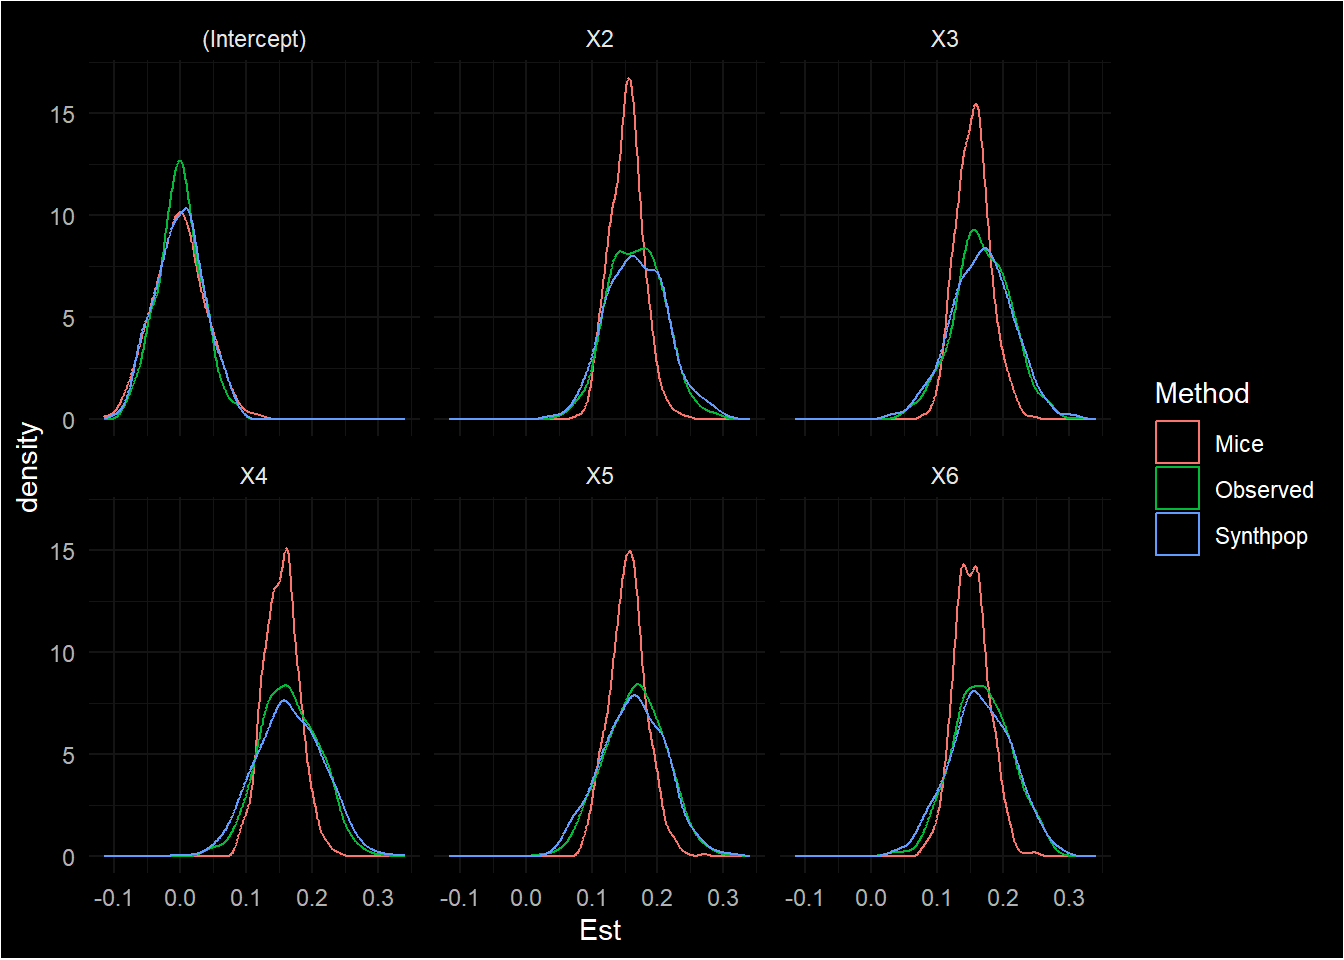
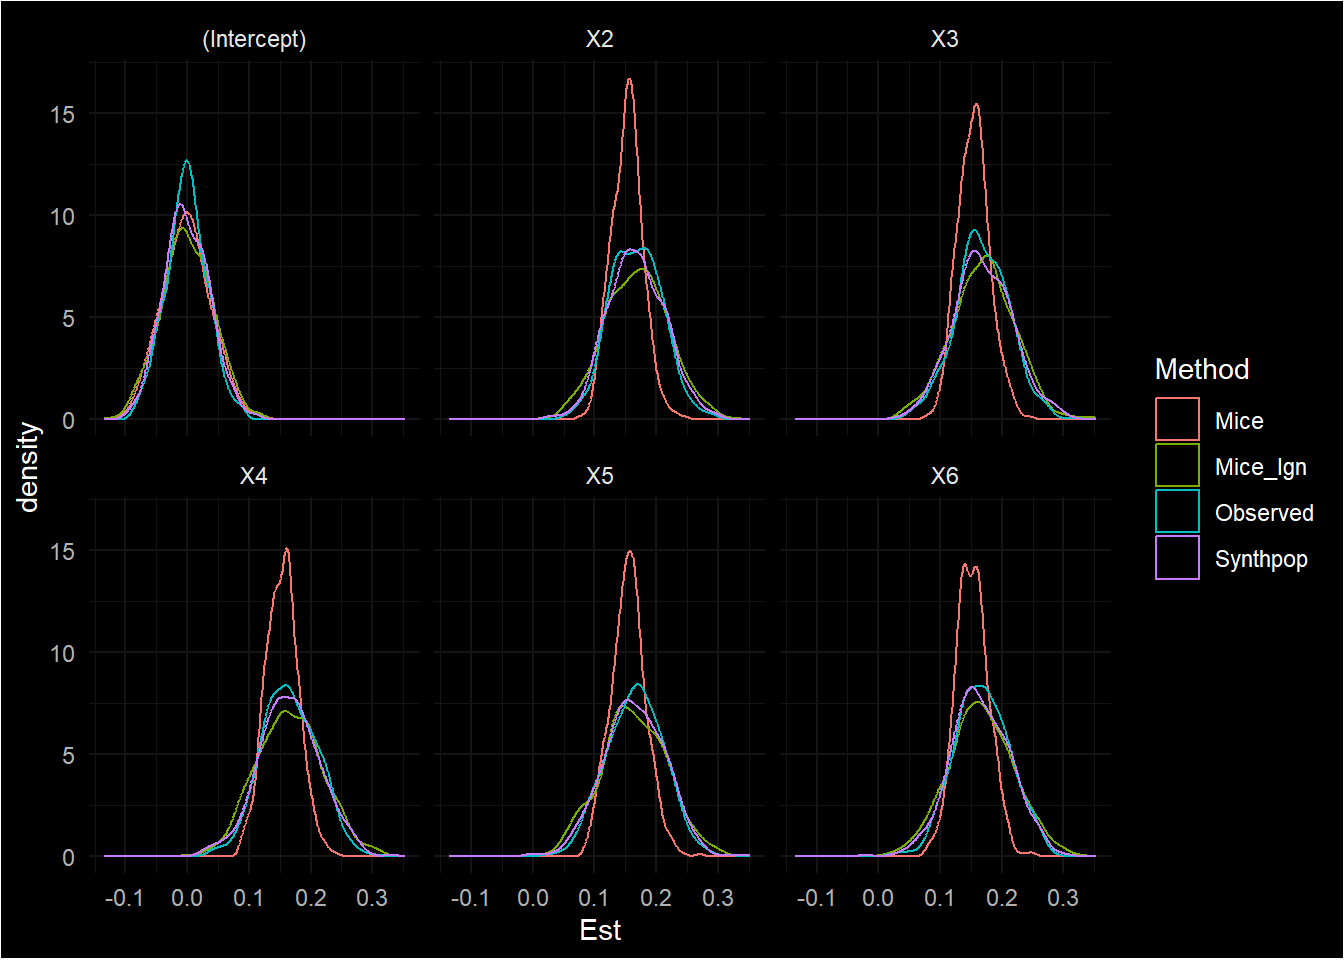
Add another way of synthesizing with mice which yields valid results.

diff --git a/mice_param_synth.html b/mice_param_synth.html
@@ -175,7 +175,7 @@ R^2 = \boldsymbol{1}'_5 (\beta \beta' \odot S_{-1,-1}) \boldsymbol{1}_5
 </section>
 <section id="create-synthetic-data" class="level2">
 <h2 class="anchored" data-anchor-id="create-synthetic-data">Create synthetic data</h2>
-<div class="cell" data-hash="mice_param_synth_cache/html/gen-synth_a96e5182432711e8728e7683e5a57239">
+<div class="cell" data-hash="mice_param_synth_cache/html/gen-synth_36312c147d21671e6af67e35dd333d4c">
 <div class="sourceCode cell-code" id="cb4"><pre class="sourceCode r code-with-copy"><code class="sourceCode r"><span id="cb4-1"><a href="#cb4-1" aria-hidden="true" tabindex="-1"></a>synth_mice <span class="ot">&lt;-</span> <span class="fu">future_map</span>(datlist, <span class="sc">~</span> <span class="fu">mice</span>(.x,</span>
 <span id="cb4-2"><a href="#cb4-2" aria-hidden="true" tabindex="-1"></a>                                         <span class="at">m =</span> <span class="dv">5</span>,</span>
 <span id="cb4-3"><a href="#cb4-3" aria-hidden="true" tabindex="-1"></a>                                         <span class="at">maxit =</span> <span class="dv">1</span>,</span>
@@ -185,11 +185,25 @@ R^2 = \boldsymbol{1}'_5 (\beta \beta' \odot S_{-1,-1}) \boldsymbol{1}_5
 <span id="cb4-7"><a href="#cb4-7" aria-hidden="true" tabindex="-1"></a>                                    <span class="fu">complete</span>(<span class="st">"all"</span>),</span>
 <span id="cb4-8"><a href="#cb4-8" aria-hidden="true" tabindex="-1"></a>                         <span class="at">.options =</span> <span class="fu">furrr_options</span>(<span class="at">seed =</span> <span class="cn">TRUE</span>))</span>
 <span id="cb4-9"><a href="#cb4-9" aria-hidden="true" tabindex="-1"></a></span>
-<span id="cb4-10"><a href="#cb4-10" aria-hidden="true" tabindex="-1"></a>synth_synthpop <span class="ot">&lt;-</span> <span class="fu">future_map</span>(datlist, <span class="sc">~</span> <span class="fu">syn</span>(.x,</span>
-<span id="cb4-11"><a href="#cb4-11" aria-hidden="true" tabindex="-1"></a>                                            <span class="at">m =</span> <span class="dv">5</span>, </span>
-<span id="cb4-12"><a href="#cb4-12" aria-hidden="true" tabindex="-1"></a>                                            <span class="at">method =</span> <span class="st">"norm"</span>,</span>
-<span id="cb4-13"><a href="#cb4-13" aria-hidden="true" tabindex="-1"></a>                                            <span class="at">print.flag =</span> F)<span class="sc">$</span>syn,</span>
-<span id="cb4-14"><a href="#cb4-14" aria-hidden="true" tabindex="-1"></a>                             <span class="at">.options =</span> <span class="fu">furrr_options</span>(<span class="at">seed =</span> <span class="cn">TRUE</span>))</span></code><button title="Copy to Clipboard" class="code-copy-button"><i class="bi"></i></button></pre></div>
+<span id="cb4-10"><a href="#cb4-10" aria-hidden="true" tabindex="-1"></a>synth_mice2 <span class="ot">&lt;-</span> <span class="fu">future_map</span>(datlist, <span class="cf">function</span>(x) {</span>
+<span id="cb4-11"><a href="#cb4-11" aria-hidden="true" tabindex="-1"></a>  new_x <span class="ot">&lt;-</span> <span class="fu">matrix</span>(<span class="cn">NA</span>, <span class="fu">nrow</span>(x), <span class="fu">ncol</span>(x), <span class="at">dimnames =</span> <span class="fu">list</span>(<span class="cn">NULL</span>, <span class="fu">names</span>(x)))</span>
+<span id="cb4-12"><a href="#cb4-12" aria-hidden="true" tabindex="-1"></a>  pred  <span class="ot">&lt;-</span> <span class="fu">make.predictorMatrix</span>(x)</span>
+<span id="cb4-13"><a href="#cb4-13" aria-hidden="true" tabindex="-1"></a>  imp   <span class="ot">&lt;-</span> <span class="fu">mice</span>(<span class="fu">rbind</span>(x, new_x),</span>
+<span id="cb4-14"><a href="#cb4-14" aria-hidden="true" tabindex="-1"></a>                <span class="at">m =</span> <span class="dv">5</span>, </span>
+<span id="cb4-15"><a href="#cb4-15" aria-hidden="true" tabindex="-1"></a>                <span class="at">method =</span> <span class="st">"norm"</span>,</span>
+<span id="cb4-16"><a href="#cb4-16" aria-hidden="true" tabindex="-1"></a>                <span class="at">maxit =</span> <span class="dv">1</span>,</span>
+<span id="cb4-17"><a href="#cb4-17" aria-hidden="true" tabindex="-1"></a>                <span class="at">predictorMatrix =</span> <span class="sc">+</span><span class="fu">lower.tri</span>(pred),</span>
+<span id="cb4-18"><a href="#cb4-18" aria-hidden="true" tabindex="-1"></a>                <span class="at">ignore =</span> <span class="fu">rep</span>(<span class="fu">c</span>(<span class="cn">FALSE</span>, <span class="cn">TRUE</span>), <span class="at">each =</span> <span class="fu">nrow</span>(x)),</span>
+<span id="cb4-19"><a href="#cb4-19" aria-hidden="true" tabindex="-1"></a>                <span class="at">print =</span> F)</span>
+<span id="cb4-20"><a href="#cb4-20" aria-hidden="true" tabindex="-1"></a>  <span class="fu">complete</span>(imp, <span class="st">"all"</span>) <span class="sc">|&gt;</span></span>
+<span id="cb4-21"><a href="#cb4-21" aria-hidden="true" tabindex="-1"></a>    <span class="fu">map</span>(<span class="sc">~</span> .x[(<span class="fu">nrow</span>(x) <span class="sc">+</span> <span class="dv">1</span>)<span class="sc">:</span>(<span class="dv">2</span><span class="sc">*</span><span class="fu">nrow</span>(x)),])</span>
+<span id="cb4-22"><a href="#cb4-22" aria-hidden="true" tabindex="-1"></a>}, <span class="at">.options =</span> <span class="fu">furrr_options</span>(<span class="at">seed =</span> <span class="cn">TRUE</span>))</span>
+<span id="cb4-23"><a href="#cb4-23" aria-hidden="true" tabindex="-1"></a></span>
+<span id="cb4-24"><a href="#cb4-24" aria-hidden="true" tabindex="-1"></a>synth_synthpop <span class="ot">&lt;-</span> <span class="fu">future_map</span>(datlist, <span class="sc">~</span> <span class="fu">syn</span>(.x,</span>
+<span id="cb4-25"><a href="#cb4-25" aria-hidden="true" tabindex="-1"></a>                                            <span class="at">m =</span> <span class="dv">5</span>, </span>
+<span id="cb4-26"><a href="#cb4-26" aria-hidden="true" tabindex="-1"></a>                                            <span class="at">method =</span> <span class="st">"norm"</span>,</span>
+<span id="cb4-27"><a href="#cb4-27" aria-hidden="true" tabindex="-1"></a>                                            <span class="at">print.flag =</span> F)<span class="sc">$</span>syn,</span>
+<span id="cb4-28"><a href="#cb4-28" aria-hidden="true" tabindex="-1"></a>                             <span class="at">.options =</span> <span class="fu">furrr_options</span>(<span class="at">seed =</span> <span class="cn">TRUE</span>))</span></code><button title="Copy to Clipboard" class="code-copy-button"><i class="bi"></i></button></pre></div>
 </div>
 </section>
 <section id="inferences" class="level2">
@@ -231,7 +245,7 @@ R^2 = \boldsymbol{1}'_5 (\beta \beta' \odot S_{-1,-1}) \boldsymbol{1}_5
 <span id="cb5-34"><a href="#cb5-34" aria-hidden="true" tabindex="-1"></a>             <span class="at">Upp =</span> fit[,<span class="dv">3</span>] <span class="sc">+</span> <span class="fu">qt</span>(<span class="fl">0.975</span>, fit[,<span class="dv">8</span>]) <span class="sc">*</span> <span class="fu">sqrt</span>(fit[,<span class="dv">6</span>]))</span>
 <span id="cb5-35"><a href="#cb5-35" aria-hidden="true" tabindex="-1"></a>})</span>
 <span id="cb5-36"><a href="#cb5-36" aria-hidden="true" tabindex="-1"></a></span>
-<span id="cb5-37"><a href="#cb5-37" aria-hidden="true" tabindex="-1"></a>synthpop_inf <span class="ot">&lt;-</span> <span class="fu">map_dfr</span>(synth_synthpop, <span class="cf">function</span>(x) {</span>
+<span id="cb5-37"><a href="#cb5-37" aria-hidden="true" tabindex="-1"></a>mice2_inf <span class="ot">&lt;-</span> <span class="fu">map_dfr</span>(synth_mice2, <span class="cf">function</span>(x) {</span>
 <span id="cb5-38"><a href="#cb5-38" aria-hidden="true" tabindex="-1"></a>  fit <span class="ot">&lt;-</span> <span class="fu">map</span>(x, <span class="sc">~</span> <span class="fu">lm</span>(X1 <span class="sc">~</span> X2 <span class="sc">+</span> X3 <span class="sc">+</span> X4 <span class="sc">+</span> X5 <span class="sc">+</span> X6, .x)) <span class="sc">|&gt;</span></span>
 <span id="cb5-39"><a href="#cb5-39" aria-hidden="true" tabindex="-1"></a>    <span class="fu">pool</span>(<span class="at">rule =</span> <span class="st">"reiter2003"</span>) <span class="sc">%$%</span></span>
 <span id="cb5-40"><a href="#cb5-40" aria-hidden="true" tabindex="-1"></a>    pooled</span>
@@ -241,7 +255,19 @@ R^2 = \boldsymbol{1}'_5 (\beta \beta' \odot S_{-1,-1}) \boldsymbol{1}_5
 <span id="cb5-44"><a href="#cb5-44" aria-hidden="true" tabindex="-1"></a>             <span class="at">SE  =</span> <span class="fu">sqrt</span>(fit[,<span class="dv">6</span>]),</span>
 <span id="cb5-45"><a href="#cb5-45" aria-hidden="true" tabindex="-1"></a>             <span class="at">Low =</span> fit[,<span class="dv">3</span>] <span class="sc">-</span> <span class="fu">qt</span>(<span class="fl">0.975</span>, fit[,<span class="dv">8</span>]) <span class="sc">*</span> <span class="fu">sqrt</span>(fit[,<span class="dv">6</span>]),</span>
 <span id="cb5-46"><a href="#cb5-46" aria-hidden="true" tabindex="-1"></a>             <span class="at">Upp =</span> fit[,<span class="dv">3</span>] <span class="sc">+</span> <span class="fu">qt</span>(<span class="fl">0.975</span>, fit[,<span class="dv">8</span>]) <span class="sc">*</span> <span class="fu">sqrt</span>(fit[,<span class="dv">6</span>]))</span>
-<span id="cb5-47"><a href="#cb5-47" aria-hidden="true" tabindex="-1"></a>})</span></code><button title="Copy to Clipboard" class="code-copy-button"><i class="bi"></i></button></pre></div>
+<span id="cb5-47"><a href="#cb5-47" aria-hidden="true" tabindex="-1"></a>})</span>
+<span id="cb5-48"><a href="#cb5-48" aria-hidden="true" tabindex="-1"></a></span>
+<span id="cb5-49"><a href="#cb5-49" aria-hidden="true" tabindex="-1"></a>synthpop_inf <span class="ot">&lt;-</span> <span class="fu">map_dfr</span>(synth_synthpop, <span class="cf">function</span>(x) {</span>
+<span id="cb5-50"><a href="#cb5-50" aria-hidden="true" tabindex="-1"></a>  fit <span class="ot">&lt;-</span> <span class="fu">map</span>(x, <span class="sc">~</span> <span class="fu">lm</span>(X1 <span class="sc">~</span> X2 <span class="sc">+</span> X3 <span class="sc">+</span> X4 <span class="sc">+</span> X5 <span class="sc">+</span> X6, .x)) <span class="sc">|&gt;</span></span>
+<span id="cb5-51"><a href="#cb5-51" aria-hidden="true" tabindex="-1"></a>    <span class="fu">pool</span>(<span class="at">rule =</span> <span class="st">"reiter2003"</span>) <span class="sc">%$%</span></span>
+<span id="cb5-52"><a href="#cb5-52" aria-hidden="true" tabindex="-1"></a>    pooled</span>
+<span id="cb5-53"><a href="#cb5-53" aria-hidden="true" tabindex="-1"></a>  </span>
+<span id="cb5-54"><a href="#cb5-54" aria-hidden="true" tabindex="-1"></a>  <span class="fu">data.frame</span>(<span class="at">Var =</span> fit[,<span class="dv">1</span>],</span>
+<span id="cb5-55"><a href="#cb5-55" aria-hidden="true" tabindex="-1"></a>             <span class="at">Est =</span> fit[,<span class="dv">3</span>],</span>
+<span id="cb5-56"><a href="#cb5-56" aria-hidden="true" tabindex="-1"></a>             <span class="at">SE  =</span> <span class="fu">sqrt</span>(fit[,<span class="dv">6</span>]),</span>
+<span id="cb5-57"><a href="#cb5-57" aria-hidden="true" tabindex="-1"></a>             <span class="at">Low =</span> fit[,<span class="dv">3</span>] <span class="sc">-</span> <span class="fu">qt</span>(<span class="fl">0.975</span>, fit[,<span class="dv">8</span>]) <span class="sc">*</span> <span class="fu">sqrt</span>(fit[,<span class="dv">6</span>]),</span>
+<span id="cb5-58"><a href="#cb5-58" aria-hidden="true" tabindex="-1"></a>             <span class="at">Upp =</span> fit[,<span class="dv">3</span>] <span class="sc">+</span> <span class="fu">qt</span>(<span class="fl">0.975</span>, fit[,<span class="dv">8</span>]) <span class="sc">*</span> <span class="fu">sqrt</span>(fit[,<span class="dv">6</span>]))</span>
+<span id="cb5-59"><a href="#cb5-59" aria-hidden="true" tabindex="-1"></a>})</span></code><button title="Copy to Clipboard" class="code-copy-button"><i class="bi"></i></button></pre></div>
 </div>
 </section>
 <section id="coverage" class="level2">
@@ -381,10 +407,76 @@ R^2 = \boldsymbol{1}'_5 (\beta \beta' \odot S_{-1,-1}) \boldsymbol{1}_5
 </div>
 </div>
 </section>
+<section id="second-mice-approach-to-synthetic-data" class="level3">
+<h3 class="anchored" data-anchor-id="second-mice-approach-to-synthetic-data">Second mice approach to synthetic data</h3>
+<p>Note that with this approach, we specify the ignore parameter to make sure the imputation models are not affected by the synthetic data.</p>
+<div class="cell">
+<div class="sourceCode cell-code" id="cb9"><pre class="sourceCode r code-with-copy"><code class="sourceCode r"><span id="cb9-1"><a href="#cb9-1" aria-hidden="true" tabindex="-1"></a><span class="fu">coverage</span>(mice2_inf, <span class="fu">c</span>(<span class="dv">0</span>,<span class="dv">1</span>,<span class="dv">1</span>,<span class="dv">1</span>,<span class="dv">1</span>,<span class="dv">1</span>)<span class="sc">/</span><span class="dv">6</span>) <span class="sc">|&gt;</span> <span class="fu">print.df</span>()</span></code><button title="Copy to Clipboard" class="code-copy-button"><i class="bi"></i></button></pre></div>
+<div class="cell-output-display">
+
+<table class="table table-striped table-hover" style="margin-left: auto; margin-right: auto;">
+ <thead>
+  <tr>
+   <th style="text-align:left;"> Var </th>
+   <th style="text-align:right;"> True_Est </th>
+   <th style="text-align:right;"> Imp_Est </th>
+   <th style="text-align:right;"> SE </th>
+   <th style="text-align:right;"> Cov </th>
+  </tr>
+ </thead>
+<tbody>
+  <tr>
+   <td style="text-align:left;"> (Intercept) </td>
+   <td style="text-align:right;"> 0.000 </td>
+   <td style="text-align:right;"> 0.000 </td>
+   <td style="text-align:right;"> 0.041 </td>
+   <td style="text-align:right;"> 0.938 </td>
+  </tr>
+  <tr>
+   <td style="text-align:left;"> X2 </td>
+   <td style="text-align:right;"> 0.167 </td>
+   <td style="text-align:right;"> 0.168 </td>
+   <td style="text-align:right;"> 0.052 </td>
+   <td style="text-align:right;"> 0.966 </td>
+  </tr>
+  <tr>
+   <td style="text-align:left;"> X3 </td>
+   <td style="text-align:right;"> 0.167 </td>
+   <td style="text-align:right;"> 0.169 </td>
+   <td style="text-align:right;"> 0.052 </td>
+   <td style="text-align:right;"> 0.950 </td>
+  </tr>
+  <tr>
+   <td style="text-align:left;"> X4 </td>
+   <td style="text-align:right;"> 0.167 </td>
+   <td style="text-align:right;"> 0.165 </td>
+   <td style="text-align:right;"> 0.052 </td>
+   <td style="text-align:right;"> 0.946 </td>
+  </tr>
+  <tr>
+   <td style="text-align:left;"> X5 </td>
+   <td style="text-align:right;"> 0.167 </td>
+   <td style="text-align:right;"> 0.163 </td>
+   <td style="text-align:right;"> 0.052 </td>
+   <td style="text-align:right;"> 0.952 </td>
+  </tr>
+  <tr>
+   <td style="text-align:left;"> X6 </td>
+   <td style="text-align:right;"> 0.167 </td>
+   <td style="text-align:right;"> 0.166 </td>
+   <td style="text-align:right;"> 0.052 </td>
+   <td style="text-align:right;"> 0.946 </td>
+  </tr>
+</tbody>
+</table>
+
+</div>
+</div>
+</section>
 <section id="synthpop-synthetic" class="level3">
 <h3 class="anchored" data-anchor-id="synthpop-synthetic">Synthpop synthetic</h3>
 <div class="cell">
-<div class="sourceCode cell-code" id="cb9"><pre class="sourceCode r code-with-copy"><code class="sourceCode r"><span id="cb9-1"><a href="#cb9-1" aria-hidden="true" tabindex="-1"></a><span class="fu">coverage</span>(synthpop_inf, <span class="fu">c</span>(<span class="dv">0</span>,<span class="dv">1</span>,<span class="dv">1</span>,<span class="dv">1</span>,<span class="dv">1</span>,<span class="dv">1</span>)<span class="sc">/</span><span class="dv">6</span>) <span class="sc">|&gt;</span> <span class="fu">print.df</span>()</span></code><button title="Copy to Clipboard" class="code-copy-button"><i class="bi"></i></button></pre></div>
+<div class="sourceCode cell-code" id="cb10"><pre class="sourceCode r code-with-copy"><code class="sourceCode r"><span id="cb10-1"><a href="#cb10-1" aria-hidden="true" tabindex="-1"></a><span class="fu">coverage</span>(synthpop_inf, <span class="fu">c</span>(<span class="dv">0</span>,<span class="dv">1</span>,<span class="dv">1</span>,<span class="dv">1</span>,<span class="dv">1</span>,<span class="dv">1</span>)<span class="sc">/</span><span class="dv">6</span>) <span class="sc">|&gt;</span> <span class="fu">print.df</span>()</span></code><button title="Copy to Clipboard" class="code-copy-button"><i class="bi"></i></button></pre></div>
 <div class="cell-output-display">
 
 <table class="table table-striped table-hover" style="margin-left: auto; margin-right: auto;">
@@ -403,62 +495,63 @@ R^2 = \boldsymbol{1}'_5 (\beta \beta' \odot S_{-1,-1}) \boldsymbol{1}_5
    <td style="text-align:right;"> 0.000 </td>
    <td style="text-align:right;"> -0.001 </td>
    <td style="text-align:right;"> 0.038 </td>
-   <td style="text-align:right;"> 0.970 </td>
+   <td style="text-align:right;"> 0.956 </td>
   </tr>
   <tr>
    <td style="text-align:left;"> X2 </td>
    <td style="text-align:right;"> 0.167 </td>
-   <td style="text-align:right;"> 0.168 </td>
+   <td style="text-align:right;"> 0.167 </td>
    <td style="text-align:right;"> 0.048 </td>
-   <td style="text-align:right;"> 0.958 </td>
+   <td style="text-align:right;"> 0.964 </td>
   </tr>
   <tr>
    <td style="text-align:left;"> X3 </td>
    <td style="text-align:right;"> 0.167 </td>
-   <td style="text-align:right;"> 0.167 </td>
-   <td style="text-align:right;"> 0.049 </td>
-   <td style="text-align:right;"> 0.958 </td>
+   <td style="text-align:right;"> 0.169 </td>
+   <td style="text-align:right;"> 0.048 </td>
+   <td style="text-align:right;"> 0.944 </td>
   </tr>
   <tr>
    <td style="text-align:left;"> X4 </td>
    <td style="text-align:right;"> 0.167 </td>
-   <td style="text-align:right;"> 0.166 </td>
+   <td style="text-align:right;"> 0.165 </td>
    <td style="text-align:right;"> 0.048 </td>
-   <td style="text-align:right;"> 0.948 </td>
+   <td style="text-align:right;"> 0.950 </td>
   </tr>
   <tr>
    <td style="text-align:left;"> X5 </td>
    <td style="text-align:right;"> 0.167 </td>
-   <td style="text-align:right;"> 0.163 </td>
+   <td style="text-align:right;"> 0.164 </td>
    <td style="text-align:right;"> 0.048 </td>
    <td style="text-align:right;"> 0.950 </td>
   </tr>
   <tr>
    <td style="text-align:left;"> X6 </td>
    <td style="text-align:right;"> 0.167 </td>
-   <td style="text-align:right;"> 0.166 </td>
+   <td style="text-align:right;"> 0.165 </td>
    <td style="text-align:right;"> 0.048 </td>
-   <td style="text-align:right;"> 0.952 </td>
+   <td style="text-align:right;"> 0.950 </td>
   </tr>
 </tbody>
 </table>
 
 </div>
 </div>
-<p>So, we see that whereas inferences on the true data and the synthetic data generated with <code>synthpop</code> are unbiased, inferences from the data generated with <code>mice</code> are biased. Apart from that, they are also overcovering (with the same pooling rules as used for <code>synthpop</code>).</p>
+<p>So, we see that whereas inferences on the true data, the synthetic data generated with <code>synthpop</code> and the synthetic data generated with <code>mice</code> by using the <code>ignore</code> parameter are unbiased, inferences from the data generated with <code>mice</code> are biased. Apart from that, they are also overcovering (with the same pooling rules as used for <code>synthpop</code>). This implies that the variance using the regular <code>mice</code> method without specifying the <code>ignore</code> parameter is too small, resulting in too many values close to the center of the sampling distribution.</p>
 </section>
 </section>
 <section id="visualize-results" class="level2">
 <h2 class="anchored" data-anchor-id="visualize-results">Visualize results</h2>
 <div class="cell">
-<div class="sourceCode cell-code" id="cb10"><pre class="sourceCode r code-with-copy"><code class="sourceCode r"><span id="cb10-1"><a href="#cb10-1" aria-hidden="true" tabindex="-1"></a><span class="fu">bind_rows</span>(<span class="at">Observed =</span> true_inf,</span>
-<span id="cb10-2"><a href="#cb10-2" aria-hidden="true" tabindex="-1"></a>          <span class="at">Mice =</span> mice_inf,</span>
-<span id="cb10-3"><a href="#cb10-3" aria-hidden="true" tabindex="-1"></a>          <span class="at">Synthpop =</span> synthpop_inf,</span>
-<span id="cb10-4"><a href="#cb10-4" aria-hidden="true" tabindex="-1"></a>          <span class="at">.id =</span> <span class="st">"Method"</span>) <span class="sc">|&gt;</span></span>
-<span id="cb10-5"><a href="#cb10-5" aria-hidden="true" tabindex="-1"></a>  <span class="fu">ggplot</span>(<span class="fu">aes</span>(<span class="at">x =</span> Est, <span class="at">col =</span> Method)) <span class="sc">+</span></span>
-<span id="cb10-6"><a href="#cb10-6" aria-hidden="true" tabindex="-1"></a>  <span class="fu">geom_density</span>() <span class="sc">+</span></span>
-<span id="cb10-7"><a href="#cb10-7" aria-hidden="true" tabindex="-1"></a>  ggdark<span class="sc">::</span><span class="fu">dark_theme_minimal</span>() <span class="sc">+</span></span>
-<span id="cb10-8"><a href="#cb10-8" aria-hidden="true" tabindex="-1"></a>  <span class="fu">facet_wrap</span>(<span class="sc">~</span>Var)</span></code><button title="Copy to Clipboard" class="code-copy-button"><i class="bi"></i></button></pre></div>
+<div class="sourceCode cell-code" id="cb11"><pre class="sourceCode r code-with-copy"><code class="sourceCode r"><span id="cb11-1"><a href="#cb11-1" aria-hidden="true" tabindex="-1"></a><span class="fu">bind_rows</span>(<span class="at">Observed =</span> true_inf,</span>
+<span id="cb11-2"><a href="#cb11-2" aria-hidden="true" tabindex="-1"></a>          <span class="at">Mice =</span> mice_inf,</span>
+<span id="cb11-3"><a href="#cb11-3" aria-hidden="true" tabindex="-1"></a>          <span class="at">Mice_Ign =</span> mice2_inf,</span>
+<span id="cb11-4"><a href="#cb11-4" aria-hidden="true" tabindex="-1"></a>          <span class="at">Synthpop =</span> synthpop_inf,</span>
+<span id="cb11-5"><a href="#cb11-5" aria-hidden="true" tabindex="-1"></a>          <span class="at">.id =</span> <span class="st">"Method"</span>) <span class="sc">|&gt;</span></span>
+<span id="cb11-6"><a href="#cb11-6" aria-hidden="true" tabindex="-1"></a>  <span class="fu">ggplot</span>(<span class="fu">aes</span>(<span class="at">x =</span> Est, <span class="at">col =</span> Method)) <span class="sc">+</span></span>
+<span id="cb11-7"><a href="#cb11-7" aria-hidden="true" tabindex="-1"></a>  <span class="fu">geom_density</span>() <span class="sc">+</span></span>
+<span id="cb11-8"><a href="#cb11-8" aria-hidden="true" tabindex="-1"></a>  ggdark<span class="sc">::</span><span class="fu">dark_theme_minimal</span>() <span class="sc">+</span></span>
+<span id="cb11-9"><a href="#cb11-9" aria-hidden="true" tabindex="-1"></a>  <span class="fu">facet_wrap</span>(<span class="sc">~</span>Var)</span></code><button title="Copy to Clipboard" class="code-copy-button"><i class="bi"></i></button></pre></div>
 <div class="cell-output-display">
 <p><img src="mice_param_synth_files/figure-html/plot-results-1.png" class="img-fluid" width="672"></p>
 </div>
